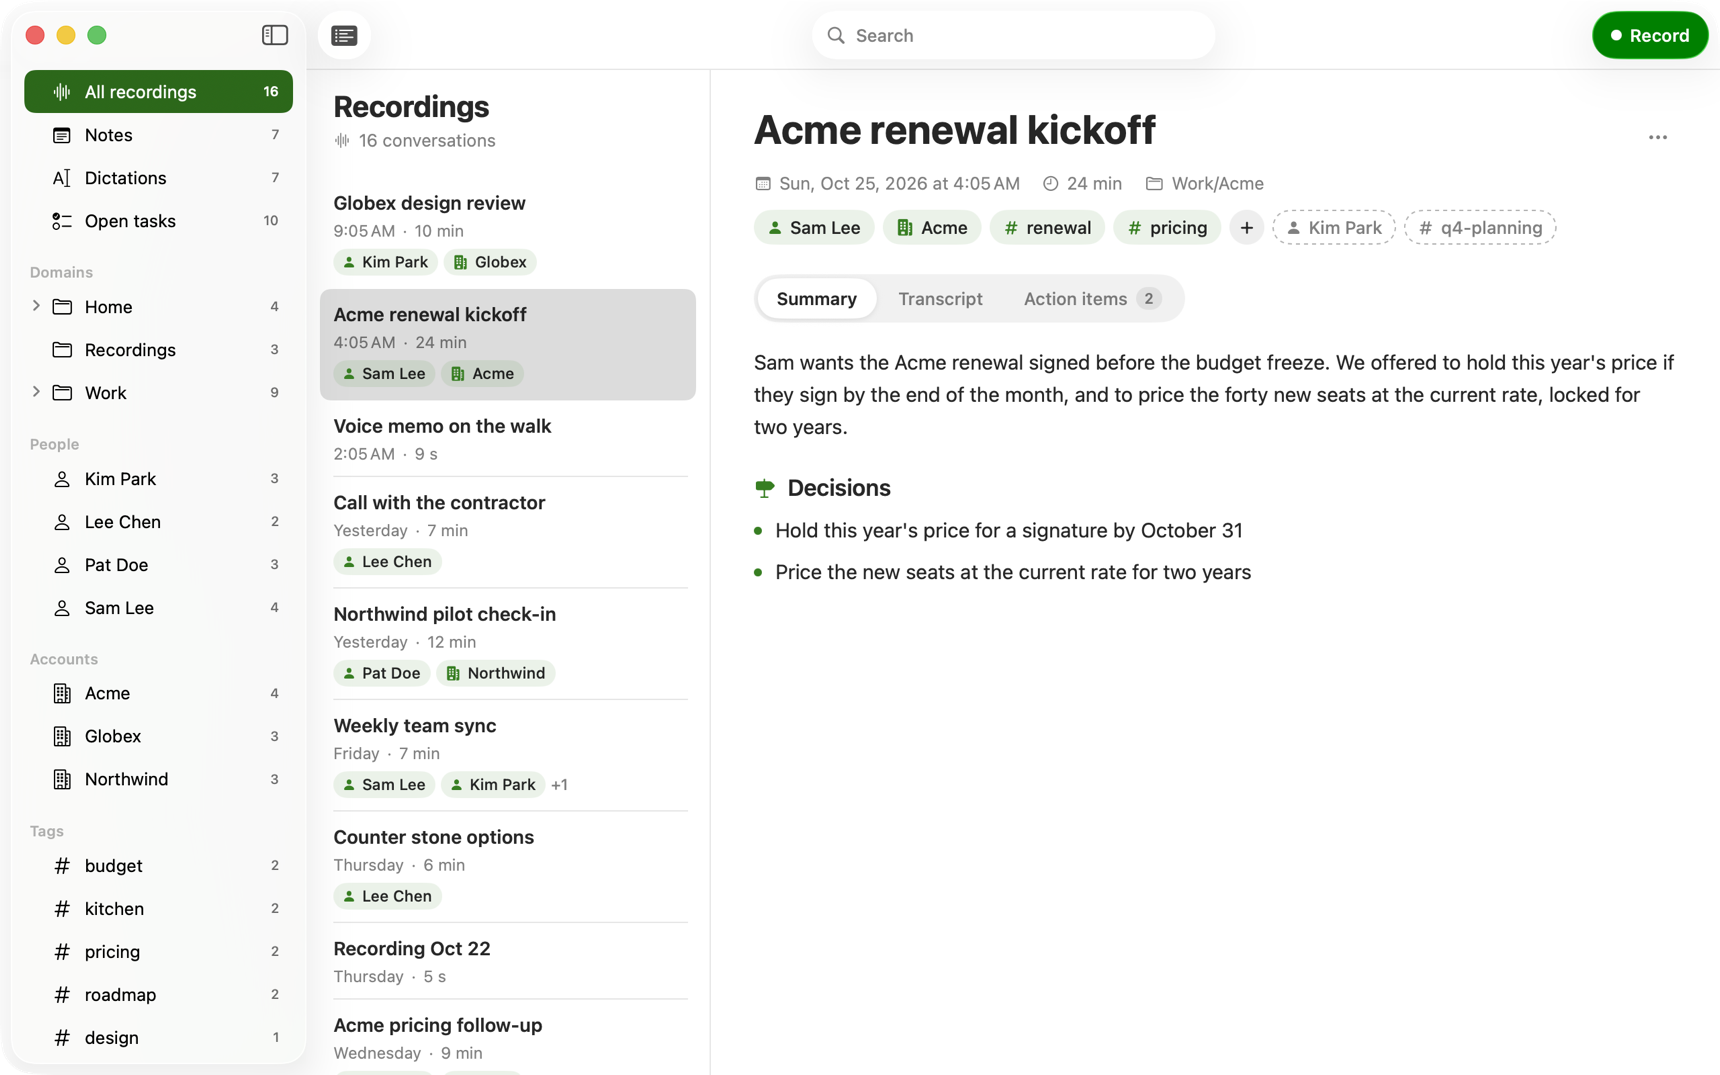
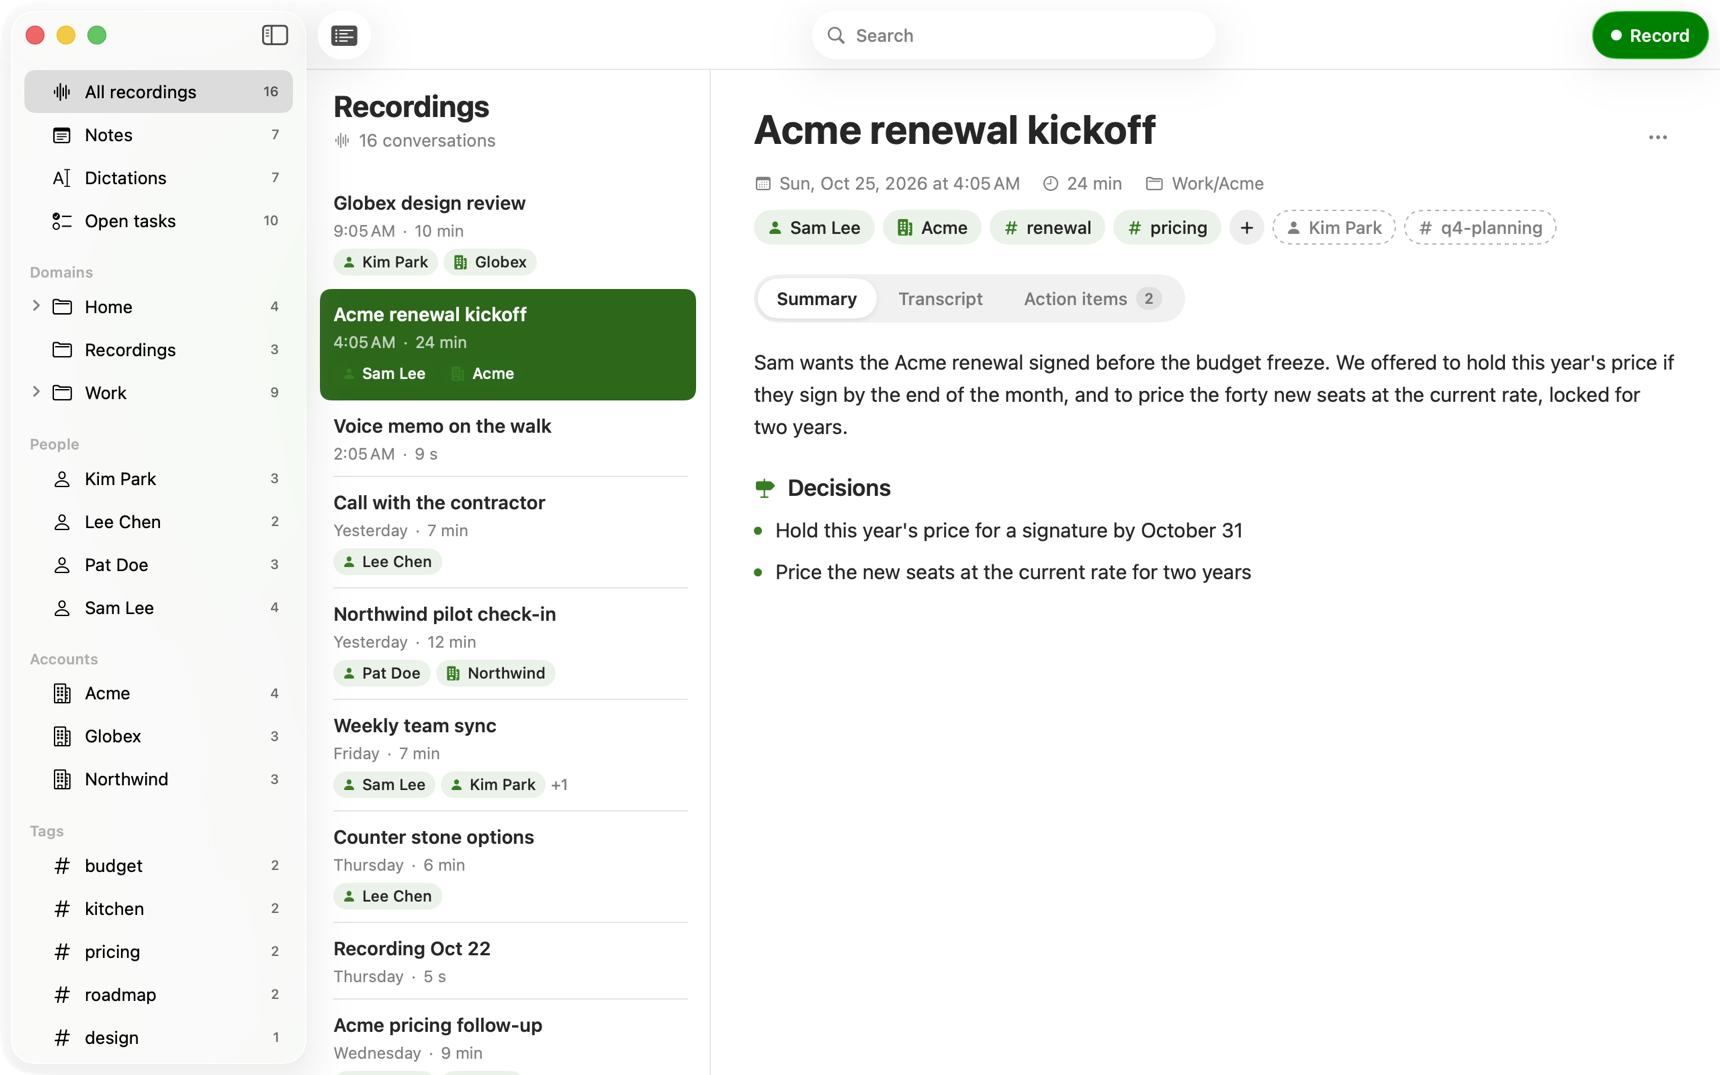
Glyph Jot 0.7.10: design pass
Claude-Session: https://claude.ai/code/session_012askAJo29fpX9HucGUhMSa

Changed region(s): [[0.1849, 0.2456, 0.4314, 0.3991], [0.0, 0.0614, 0.1849, 0.1228]]

diff --git a/Mac/History.swift b/Mac/History.swift
@@ -89,6 +89,8 @@ struct HistoryView: View {
                     }
                 }
             }
+            .listStyle(.inset)
+            .scrollContentBackground(.hidden)
             .overlay { if shown.isEmpty { Text(entries.isEmpty ? "No dictations yet" : "Nothing matches").foregroundStyle(.secondary) } }
         }
         .onChange(of: ask.busy) { if !ask.busy { entries = Self.load() } }
@@ -112,20 +114,24 @@ struct HistoryView: View {
     @State private var hovered: Entry.ID?
 
     private func row(_ entry: Entry) -> some View {
-        let showActions = hovered == entry.id || copied == entry.id || stars.contains(entry.id)
+        let showActions = hovered == entry.id || copied == entry.id
         return HStack(alignment: .top, spacing: 12) {
             Text(entry.at.formatted(date: .omitted, time: .shortened))
                 .monospacedDigit().foregroundStyle(.secondary).frame(width: 64, alignment: .leading)
             VStack(alignment: .leading, spacing: 4) {
                 Text(entry.text).textSelection(.enabled)
-                Text([entry.app, entry.project, entry.mode == "thought" ? "Thought" : entry.mode == "command" ? "Command"
-                      : entry.mode == "ask" ? "Question" : entry.mode == "recovered" ? "Recovered" : nil]
-                    .compactMap { $0 }.filter { !$0.isEmpty }.joined(separator: " · "))
-                    .font(.caption).foregroundStyle(.secondary)
+                HStack(spacing: 5) {
+                    if stars.contains(entry.id) { Image(systemName: "star.fill").foregroundStyle(.tint).accessibilityLabel("Starred") }
+                    Text([entry.app, entry.project, entry.mode == "thought" ? "Thought" : entry.mode == "command" ? "Command"
+                          : entry.mode == "ask" ? "Question" : entry.mode == "recovered" ? "Recovered" : nil]
+                        .compactMap { $0 }.filter { !$0.isEmpty }.joined(separator: " · "))
+                }
+                .font(.caption).foregroundStyle(.secondary)
             }
-            Spacer()
-            // Actions show on hover (a starred one keeps its star), so the list stays quiet.
-            Group {
+            Spacer(minLength: 0)
+        }
+        .overlay(alignment: .topTrailing) {
+            HStack(spacing: 10) {
             Button { Engine.shared.send(.init(.insert, text: entry.text)) } label: { Image(systemName: "text.insert") }
                 .buttonStyle(.borderless)
                 .help("Insert again in the app you were in")
@@ -146,6 +152,9 @@ struct HistoryView: View {
             .buttonStyle(.borderless)
             .accessibilityLabel(stars.contains(entry.id) ? "Unstar" : "Star")
             }
+            .padding(.horizontal, 8)
+            .padding(.vertical, 4)
+            .background(.background, in: Capsule())
             .opacity(showActions ? 1 : 0)
         }
         .padding(.vertical, 2)

diff --git a/Record/ConversationList.swift b/Record/ConversationList.swift
@@ -35,6 +35,25 @@ struct ConversationList: View {
                                 .draggable(c.id)
                                 .contextMenu { ConversationMenu(id: c.id) }
                         }
+                        // A person's or an account's page also lists the notes that name them.
+                        let mentions = mentionNotes(item)
+                        if !mentions.isEmpty {
+                            Section {
+                                ForEach(mentions) { note in
+                                    Button {
+                                        model.openNote = note.file
+                                        model.sidebar = .notes
+                                    } label: {
+                                        NoteRow(note: note, linked: false).contentShape(Rectangle())
+                                    }
+                                    .buttonStyle(.plain)
+                                }
+                            } header: {
+                                Text(mentions.count == 1 ? "1 note" : "\(mentions.count) notes")
+                                    .font(.system(size: 12, weight: .semibold))
+                                    .foregroundStyle(.secondary)
+                            }
+                        }
                     }
                     .listStyle(.inset)
                     .scrollContentBackground(.hidden)
@@ -47,6 +66,15 @@ struct ConversationList: View {
             }
         }
         .background(Color(nsColor: .controlBackgroundColor).opacity(0.5))
+    }
+
+    private func mentionNotes(_ item: SidebarItem) -> [JotNote] {
+        switch item {
+        // A person by full name, alias or first name ("Sam" for Sam Lee).
+        case .person(let n): notesMentioning([n, String(n.split(separator: " ").first ?? "")] + (model.entity(.person, n)?.aliases ?? []))
+        case .account(let n): notesMentioning([n] + (model.entity(.account, n)?.aliases ?? []))
+        default: []
+        }
     }
 
     @ViewBuilder private func emptyState(_ item: SidebarItem) -> some View {

diff --git a/Record/Notes.swift b/Record/Notes.swift
@@ -214,7 +214,15 @@ struct NoteDetail: View {
                             model.selectedID = id
                             model.tab = .transcript
                         } label: {
-                            MetaChip(symbol: "waveform", text: "\(meta.title) at \(Format.clock(at))")
+                            HStack(spacing: 5) {
+                                Image(systemName: "waveform").font(.system(size: 11, weight: .semibold)).foregroundStyle(.tint)
+                                Text("\(meta.title) at \(Format.clock(at))").font(.system(size: 13, weight: .medium)).lineLimit(1)
+                                Image(systemName: "arrow.up.right").font(.system(size: 9, weight: .bold)).foregroundStyle(.secondary)
+                            }
+                            .padding(.horizontal, 10)
+                            .frame(height: 26)
+                            .background(Color.accentColor.opacity(0.12), in: Capsule())
+                            .contentShape(Capsule())
                         }
                         .buttonStyle(.plain)
                         .help("Open the recording this note was said in")
@@ -266,5 +274,15 @@ struct DictationsPane: View {
             HistoryView(search: model.searchText)
         }
         .background(Color(nsColor: .textBackgroundColor))
+    }
+}
+
+/// Notes that name a person or an account (or one of its aliases), for its page.
+@MainActor
+func notesMentioning(_ names: [String]) -> [JotNote] {
+    let words = names.map { $0.trimmingCharacters(in: .whitespaces) }.filter { $0.count >= 3 }
+    guard !words.isEmpty else { return [] }
+    return NoteStore.shared.notes.filter { note in
+        words.contains { w in note.text.range(of: "\\b\(NSRegularExpression.escapedPattern(for: w))\\b", options: [.regularExpression, .caseInsensitive]) != nil }
     }
 }

diff --git a/Mac/EngineApp.swift b/Mac/EngineApp.swift
@@ -38,6 +38,9 @@ final class AppDelegate: NSObject, NSApplicationDelegate {
     func applicationDidFinishLaunching(_ notification: Notification) {
         EngineLink.start()
         if EngineLink.quiet { log.notice("engine: quiet, for a test"); return }
+        // What macOS allows this engine (asked through the app): the install script reads this line.
+        let mic = AVCaptureDevice.authorizationStatus(for: .audio) == .authorized
+        log.notice("engine: permissions keys=\(CGPreflightListenEventAccess(), privacy: .public) paste=\(CGPreflightPostEventAccess(), privacy: .public) mic=\(mic, privacy: .public)")
         AVCaptureDevice.requestAccess(for: .audio) { granted in
             Task { @MainActor in if granted { Dictation.shared.keepMicReady(Prefs.shared.keepMicReady) } }
         }

diff --git a/README.md b/README.md
@@ -93,6 +93,9 @@ summarizes and reads the library. Tests: the `JotMac` scheme and `swift test` in
 
 ## Versions
 
+- **0.7.10** (2026-10-25): design pass. A person's or an account's page lists the notes that name
+  them; a note links to the recording it was said in; Dictations keeps its filter and Ask in its
+  header and shows a row's actions on hover; the library opens with the app (not at login).
 - **0.7.9** (2026-10-25): Glyph Dictate and Glyph Record are one app, Glyph Jot. Click Record
   for a meeting, hold Fn to jot even while recording (kept out of the meeting's transcript),
   and find notes, dictations and recordings in one library with People, Accounts and tags.
